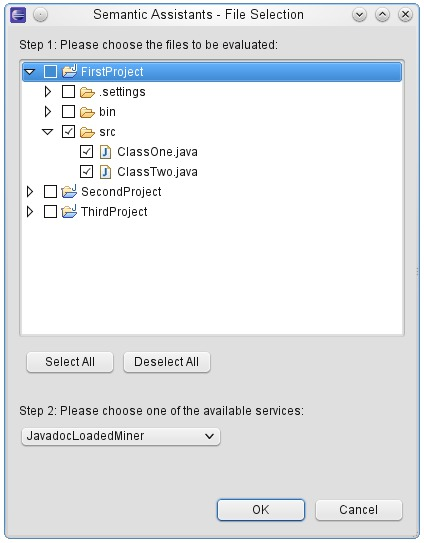
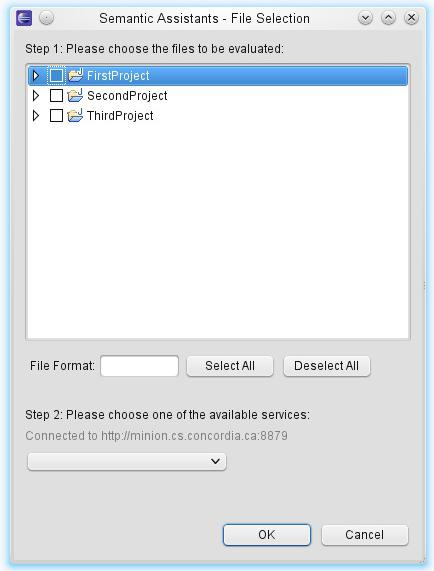
Updated the user guide with new screenshots. Added Update section. #158

Changed region(s): [[0.0, 0.0, 1.0, 1.0], [0.3373, 0.3536, 0.3679, 0.3831]]

diff --git a/trunk/Doc/semassist_clients.tex b/trunk/Doc/semassist_clients.tex
@@ -409,7 +409,7 @@ from the "Available Assistants" item and modify the connection settings to the
 Semantic Assistants server by selecting the second item.
 \begin{figure}[htb]
 \begin{center}
-  \includegraphics[width=0.8\textwidth]{pictures/eclipse_menu.jpg}
+  \includegraphics[width=1.0\textwidth]{pictures/eclipse_menu.jpg}
   \caption{Semantic Assistant Menu in Eclipse}
   \label{fig:eclipse_menu}
 \end{center}
@@ -418,7 +418,7 @@ Semantic Assistants server by selecting the second item.
 Selecting the "Available Assistants" item from Semantic Assistants menu will
 open a file selection dialog. The file selection dialog allows the user to
 select the desired files, folders and even complete projects to send to the
-server as inputs to an NLP service.
+server as inputs to an NLP service. For more convenience, you can type an arbitrary extension like ``java'' or ``xml'', in the ``File Format'' field to filter to file tree view. 
 
 \begin{figure}[htb]
 \begin{center}
@@ -431,13 +431,14 @@ server as inputs to an NLP service.
 This dialog also lets the user to select an NLP service from a dynamically
 generated list of services. This list is generated dynamically by selecting the
 available services based on the client and the language capabilities of the
-deployed NLP services. Note that the integration of a new service does not
+deployed NLP services. The server location where the service information are read from is presented just above the list as depicted in Fig \ref{fig:eclipse_services}. Note that the integration of a new service does not
 require any changes on the client side - any new NLP service created and
 deployed by a language engineer is dynamically discovered through its OWL
 metadata maintained by the architecture and so becomes immediately available to
 any connected client.
 
 \begin{figure}[htb]
+\label{fig:eclipse_services}
 \begin{center}
   \includegraphics[width=0.5\textwidth]{pictures/eclipse_services.jpg}
   \caption{A List of Available NLP Services}
@@ -507,30 +508,50 @@ Settings" item. By clicking on this menu item, a dialog as depicted in Figure \r
 
 \subsection{Installation}
 \label{subsec:eclipse_install}
-In order to use the Eclipse plug-in, do the following:
+You can install the Semantic Assistants plug-in via the Eclipse software installer. To do so, first you have to add the Semantic Assistants software repository to your Eclipse list of software sites. In addition to installing the plug-in, adding the repository lets the Eclipse update manager to check for plug-in updates once available. Please carefully follow the steps listed below to install the Eclipse plug-in and refer to section \ref{trouble:eclipse_install} for installation troubleshooting.
 
 \begin{enumerate}
-
-  \item Make sure that the client-side abstraction layer is already been built
-and packaged.
-
-  \item cd to the \url{Clients/EclipsePlugin} directory.
-
-  \item Type \texttt{ant}. The ant file will compile all the classes and package
-the plug-in JAR file in \url{EclipsePlugin/plugins} folder.
-
-  \item Browse to your Eclipse installation folder and paste the generated JAR
-file from previous step into the \url{plugins} folder.
-  
-  \item Start the Eclipse application. The Eclipse plug-in loader will
-automatically install the plug-in for you. If the plug-in is installed
+  \item Select Help $\rightarrow$ Install New Software to open the Eclipse software installer.
+  \item Press the ``Add'' button in the dialog, to add the Semantic Assistants repository.
+  \item In the new dialog depicted in Fig \ref{fig:eclipse_install}, type ``\texttt{Semantic Assistants}'' and\\ ``\texttt{http://sa-eclipse.semanticsoftware.info}'' in ``Name'' and ``Location'' fields, respectively, and press ``OK''.
+  \item The Semantic Assistants repository should now be added to your Eclipse list of software sites as seen in Fig \ref{fig:eclipse_install2}. From the loaded softwares, check the Eclipse plug-in and press ``Next''.
+  \item Simply, follow the installation steps and let the installer restart the Eclipse application.
+  \item The Eclipse plug-in loader will automatically load the plug-in for you. If the plug-in is installed
 successfully, you should be able to see the Semantic Assistants menu added to
 you toolbar.
-
-  \textbf{Note:} Remember the server must be running to be able to query or
-execute language services.
-
 \end{enumerate}
+
+\begin{figure}[htb]
+\begin{center}
+  \includegraphics[width=0.6\textwidth]{pictures/eclipse_install.jpg}
+  \caption{Adding Semantic Assistants Repository to Eclipse List of Software Sites}
+  \label{fig:eclipse_install}
+\end{center}
+\end{figure}
+
+\begin{figure}[htb]
+\begin{center}
+  \includegraphics[width=0.6\textwidth]{pictures/eclipse_install2.jpg}
+  \caption{Eclipse Software Installer Dialog}
+  \label{fig:eclipse_install2}
+\end{center}
+\end{figure}
+
+\subsection{Updating The Plug-in}
+\begin{enumerate}
+  \item Select Help $\rightarrow$ Check for Updates to open the Eclipse update manager.
+  \item If there are any updates available for the Semantic Assistants plug-in, it will appear the in the update manager dialog as shown in Fig \ref{fig:eclipse_update}.
+  \item Check the Semantic Assistants Eclipse plug-in from the list and press ``Next''.
+  \item Follow the wizard steps and let the update manager restart your Eclipse for the updates to take place.
+\end{enumerate}
+
+\begin{figure}[htb]
+\begin{center}
+  \includegraphics[width=1.0\textwidth]{pictures/eclipse_update.jpg}
+  \caption{Updatin the Plug-in via Eclipse Update Manager}
+  \label{fig:eclipse_update}
+\end{center}
+\end{figure}
 
 \subsection{Development Notes}
 \label{subsec:eclipse.development}

diff --git a/trunk/Doc/semassist_troubleshooting.tex b/trunk/Doc/semassist_troubleshooting.tex
@@ -62,5 +62,6 @@ editing the file \verb=/etc/security/limits=:
 
 \section{Installation}
 \subsection{Eclipse Plug-In}
+\label{trouble:eclipse_install}
 \paragraph{The Plug-in does not show up in Eclipse.} This problem happens when the plug-in could not successfully install itself on your Eclipse. The most common cause of this is when you have not enough permissions on your Eclipse installation folder. For Eclipse plug-in to install itself, it needs write permission to the \texttt{configurations} folder. Login as root or obtain the adequate permissions to write into the Eclipse installation folder and restart application.
 It is recommended to start Eclipse with \texttt{"-clean"} command line argument to clear any per-configuration cached data.
